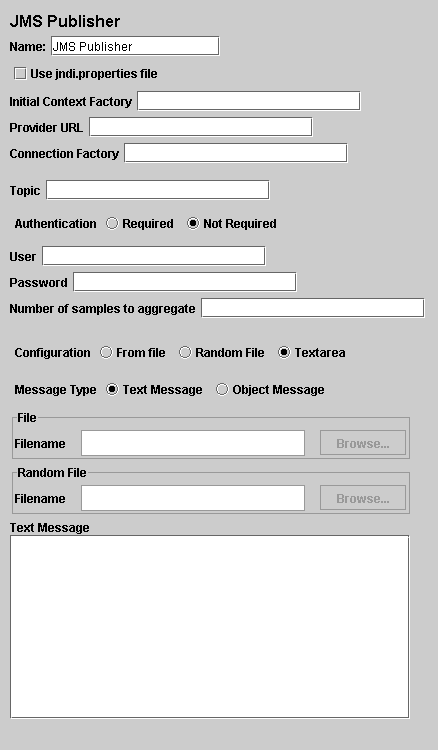
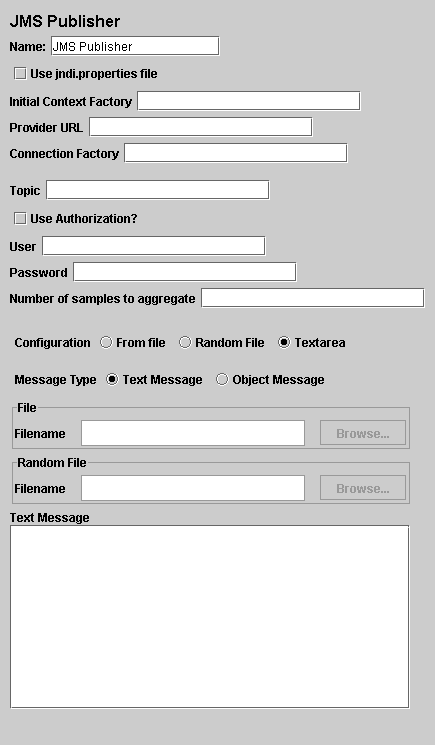
Bug 45460 - JMS TestPlan elements depend on resource property
git-svn-id: https://svn.apache.org/repos/asf/jakarta/jmeter/trunk@712032 13f79535-47bb-0310-9956-ffa450edef68

Changed region(s): [[0.0, 0.0, 0.9862, 0.957], [0.4782, 0.0309, 0.508, 0.0926]]

diff --git a/src/protocol/jms/org/apache/jmeter/protocol/jms/control/gui/JMSSubscriberGui.java b/src/protocol/jms/org/apache/jmeter/protocol/jms/control/gui/JMSSubscriberGui.java
@@ -68,14 +68,8 @@ public class JMSSubscriberGui extends AbstractSamplerGui implements java.awt.eve
     private JLabeledTextField iterations =
         new JLabeledTextField(JMeterUtils.getResString("jms_itertions")); // $NON-NLS-1$
 
-    private static final String required = JMeterUtils.getResString("jms_auth_required"); // $NON-NLS-1$
-
-    private static final String not_req = JMeterUtils.getResString("jms_auth_not_required"); // $NON-NLS-1$
-
-    private static final String[] auth_items = { required, not_req };
-
-    private JLabeledRadio reqAuth =
-        new JLabeledRadio(JMeterUtils.getResString("jms_authentication"), auth_items, not_req); // $NON-NLS-1$
+    private JCheckBox useAuth = 
+        new JCheckBox(JMeterUtils.getResString("jms_use_auth"), false); //$NON-NLS-1$
 
     private JCheckBox readResponse =
         new JCheckBox(JMeterUtils.getResString("jms_read_response"), true); // $NON-NLS-1$
@@ -118,7 +112,7 @@ public class JMSSubscriberGui extends AbstractSamplerGui implements java.awt.eve
         sampler.setTopic(jmsTopic.getText());
         sampler.setUsername(jmsUser.getText());
         sampler.setPassword(jmsPwd.getText());
-        sampler.setUseAuth(reqAuth.getText());
+        sampler.setUseAuth(useAuth.isSelected());
         sampler.setIterations(iterations.getText());
         sampler.setReadResponse(String.valueOf(readResponse.isSelected()));
         sampler.setClientChoice(clientChoice.getText());
@@ -140,7 +134,7 @@ public class JMSSubscriberGui extends AbstractSamplerGui implements java.awt.eve
         sampler.setTopic(jmsTopic.getText());
         sampler.setUsername(jmsUser.getText());
         sampler.setPassword(jmsPwd.getText());
-        sampler.setUseAuth(reqAuth.getText());
+        sampler.setUseAuth(useAuth.isSelected());
         sampler.setIterations(iterations.getText());
         sampler.setReadResponse(String.valueOf(readResponse.isSelected()));
         sampler.setClientChoice(clientChoice.getText());
@@ -179,13 +173,11 @@ public class JMSSubscriberGui extends AbstractSamplerGui implements java.awt.eve
         lookup.add(urlField);
         lookup.add(jndiConnFac);
 
-        reqAuth.addChangeListener(this);
-
         JPanel commonParams = new JPanel();
         commonParams.setLayout(new VerticalLayout(6, VerticalLayout.LEFT));
         mainPanel.add(commonParams);
         commonParams.add(jmsTopic);
-        commonParams.add(reqAuth);
+        commonParams.add(useAuth);
         commonParams.add(jmsUser);
         commonParams.add(jmsPwd);
         commonParams.add(iterations);
@@ -210,7 +202,7 @@ public class JMSSubscriberGui extends AbstractSamplerGui implements java.awt.eve
         jmsUser.setText(sampler.getUsername());
         jmsPwd.setText(sampler.getPassword());
         iterations.setText(sampler.getIterations());
-        reqAuth.setText(sampler.getUseAuth());
+        useAuth.setSelected(sampler.isUseAuth());
         readResponse.setSelected(sampler.getReadResponseAsBoolean());
         clientChoice.setText(sampler.getClientChoice());
     }
@@ -225,7 +217,7 @@ public class JMSSubscriberGui extends AbstractSamplerGui implements java.awt.eve
         jmsUser.setText(""); // $NON-NLS-1$
         jmsPwd.setText(""); // $NON-NLS-1$
         iterations.setText(""); // $NON-NLS-1$
-        reqAuth.setText(""); // $NON-NLS-1$
+        useAuth.setSelected(false);
         readResponse.setSelected(true);
         clientChoice.setText(""); // $NON-NLS-1$
     }

diff --git a/src/protocol/jms/org/apache/jmeter/protocol/jms/control/gui/JMSPublisherGui.java b/src/protocol/jms/org/apache/jmeter/protocol/jms/control/gui/JMSPublisherGui.java
@@ -65,12 +65,6 @@ public class JMSPublisherGui extends AbstractSamplerGui implements java.awt.even
 
     private String[] msgTypes = { text_msg, object_msg };
 
-    private String required = JMeterUtils.getResString("jms_auth_required"); //$NON-NLS-1$
-
-    private String not_req = JMeterUtils.getResString("jms_auth_not_required"); //$NON-NLS-1$
-
-    private String[] auth_items = { required, not_req };
-
     JCheckBox useProperties = new JCheckBox(JMeterUtils.getResString("jms_use_properties_file"), false); //$NON-NLS-1$
 
     JLabeledRadio configChoice = new JLabeledRadio(JMeterUtils.getResString("jms_config"), items, use_text); //$NON-NLS-1$
@@ -83,7 +77,8 @@ public class JMSPublisherGui extends AbstractSamplerGui implements java.awt.even
 
     JLabeledTextField jmsTopic = new JLabeledTextField(JMeterUtils.getResString("jms_topic")); //$NON-NLS-1$
 
-    JLabeledRadio reqAuth = new JLabeledRadio(JMeterUtils.getResString("jms_authentication"), auth_items, not_req); //$NON-NLS-1$
+    private JCheckBox useAuth = 
+        new JCheckBox(JMeterUtils.getResString("jms_use_auth"), false); //$NON-NLS-1$
 
     JLabeledTextField jmsUser = new JLabeledTextField(JMeterUtils.getResString("jms_user")); //$NON-NLS-1$
 
@@ -138,7 +133,7 @@ public class JMSPublisherGui extends AbstractSamplerGui implements java.awt.even
         sampler.setConfigChoice(configChoice.getText());
         sampler.setMessageChoice(msgChoice.getText());
         sampler.setIterations(iterations.getText());
-        sampler.setUseAuth(reqAuth.getText());
+        sampler.setUseAuth(useAuth.isSelected());
         return sampler;
     }
 
@@ -163,7 +158,7 @@ public class JMSPublisherGui extends AbstractSamplerGui implements java.awt.even
         sampler.setConfigChoice(configChoice.getText());
         sampler.setMessageChoice(msgChoice.getText());
         sampler.setIterations(iterations.getText());
-        sampler.setUseAuth(reqAuth.getText());
+        sampler.setUseAuth(useAuth.isSelected());
     }
 
     /**
@@ -201,13 +196,12 @@ public class JMSPublisherGui extends AbstractSamplerGui implements java.awt.even
 
         configChoice.addChangeListener(this);
         msgChoice.addChangeListener(this);
-        reqAuth.addChangeListener(this);
 
         JPanel commonParams = new JPanel();
         commonParams.setLayout(new VerticalLayout(6, VerticalLayout.LEFT));
         mainPanel.add(commonParams);
         commonParams.add(jmsTopic);
-        commonParams.add(reqAuth);
+        commonParams.add(useAuth);
         commonParams.add(jmsUser);
         commonParams.add(jmsPwd);
         commonParams.add(iterations);
@@ -244,7 +238,7 @@ public class JMSPublisherGui extends AbstractSamplerGui implements java.awt.even
         configChoice.setText(use_text);
         updateConfig(use_text);
         iterations.setText(""); // $NON-NLS-1$
-        reqAuth.setText(""); // $NON-NLS-1$
+        useAuth.setSelected(false);
     }
 
     /**
@@ -267,7 +261,7 @@ public class JMSPublisherGui extends AbstractSamplerGui implements java.awt.even
         msgChoice.setText(sampler.getMessageChoice());
         updateConfig(sampler.getConfigChoice());
         iterations.setText(sampler.getIterations());
-        reqAuth.setText(sampler.getUseAuth());
+        useAuth.setSelected(sampler.isUseAuth());
     }
 
     /**

diff --git a/src/protocol/jms/org/apache/jmeter/protocol/jms/sampler/BaseJMSSampler.java b/src/protocol/jms/org/apache/jmeter/protocol/jms/sampler/BaseJMSSampler.java
@@ -52,9 +52,8 @@ public abstract class BaseJMSSampler extends AbstractSampler implements TestList
     private static final String READ_RESPONSE = "jms.read_response"; // $NON-NLS-1$
     //--
 
-    public static final String required = JMeterUtils.getResString("jms_auth_required"); // $NON-NLS-1$
-
-    public static final String not_req = JMeterUtils.getResString("jms_auth_not_required"); // $NON-NLS-1$
+    // See BUG 45460. We need to keep the resource in order to interpret existing files
+    private static final String REQUIRED = JMeterUtils.getResString("jms_auth_required"); // $NON-NLS-1$
 
     public BaseJMSSampler() {
     }
@@ -211,10 +210,10 @@ public abstract class BaseJMSSampler extends AbstractSampler implements TestList
     /**
      * Set whether authentication is required for JNDI
      *
-     * @param auth
+     * @param useAuth
      */
-    public void setUseAuth(String auth) {
-        setProperty(USE_AUTH, auth);
+    public void setUseAuth(boolean useAuth) {
+        setProperty(USE_AUTH, useAuth);
     }
 
     /**
@@ -222,8 +221,9 @@ public abstract class BaseJMSSampler extends AbstractSampler implements TestList
      *
      * @return whether jndi requires authentication
      */
-    public String getUseAuth() {
-        return getPropertyAsString(USE_AUTH);
+    public boolean isUseAuth() {
+        final String useAuth = getPropertyAsString(USE_AUTH);
+        return useAuth.equalsIgnoreCase("true") || useAuth.equals(REQUIRED); // $NON-NLS-1$
     }
 
     /**

diff --git a/src/protocol/jms/org/apache/jmeter/protocol/jms/sampler/SubscriberSampler.java b/src/protocol/jms/org/apache/jmeter/protocol/jms/sampler/SubscriberSampler.java
@@ -103,7 +103,7 @@ public class SubscriberSampler extends BaseJMSSampler implements TestListener, M
         OnMessageSubscriber sub = (OnMessageSubscriber) ClientPool.get(this);
         if (sub == null) {
             sub = new OnMessageSubscriber(this.getUseJNDIPropertiesAsBoolean(), this.getJNDIInitialContextFactory(),
-                    this.getProviderUrl(), this.getConnectionFactory(), this.getTopic(), this.getUseAuth(), this
+                    this.getProviderUrl(), this.getConnectionFactory(), this.getTopic(), this.isUseAuth(), this
                             .getUsername(), this.getPassword());
             sub.setMessageListener(this);
             sub.resume();
@@ -122,7 +122,7 @@ public class SubscriberSampler extends BaseJMSSampler implements TestListener, M
     public void initReceiveClient() {
         this.SUBSCRIBER = new ReceiveSubscriber(this.getUseJNDIPropertiesAsBoolean(), this
                 .getJNDIInitialContextFactory(), this.getProviderUrl(), this.getConnectionFactory(), this.getTopic(),
-                this.getUseAuth(), this.getUsername(), this.getPassword());
+                this.isUseAuth(), this.getUsername(), this.getPassword());
         this.SUBSCRIBER.resume();
         ClientPool.addClient(this.SUBSCRIBER);
         log.info("SubscriberSampler.initReceiveClient called");

diff --git a/src/protocol/jms/org/apache/jmeter/protocol/jms/client/InitialContextFactory.java b/src/protocol/jms/org/apache/jmeter/protocol/jms/client/InitialContextFactory.java
@@ -29,7 +29,6 @@ import javax.jms.Topic;
 
 import org.apache.jorphan.logging.LoggingManager;
 import org.apache.log.Logger;
-import org.apache.jmeter.protocol.jms.sampler.BaseJMSSampler;
 
 /**
  * InitialContextFactory is responsible for getting and instance of the initial
@@ -41,13 +40,13 @@ public class InitialContextFactory {
 
     private static final Logger log = LoggingManager.getLoggerForClass();
 
-    public static synchronized Context lookupContext(String jndi, String url, String useAuth, String user, String pwd) {
+    public static synchronized Context lookupContext(String jndi, String url, boolean useAuth, String user, String pwd) {
         Context ctx = (Context) MAP.get(jndi + url);
         if (ctx == null) {
             Properties props = new Properties();
             props.setProperty(Context.INITIAL_CONTEXT_FACTORY, jndi);
             props.setProperty(Context.PROVIDER_URL, url);
-            if (useAuth != null && useAuth.equals(BaseJMSSampler.required) && user != null && pwd != null
+            if (useAuth && user != null && pwd != null
                     && user.length() > 0 && pwd.length() > 0) {
                 props.setProperty(Context.SECURITY_PRINCIPAL, user);
                 props.setProperty(Context.SECURITY_CREDENTIALS, pwd);

diff --git a/src/protocol/jms/org/apache/jmeter/protocol/jms/client/ReceiveSubscriber.java b/src/protocol/jms/org/apache/jmeter/protocol/jms/client/ReceiveSubscriber.java
@@ -65,7 +65,7 @@ public class ReceiveSubscriber implements Runnable {
     }
 
     public ReceiveSubscriber(boolean useProps, String jndi, String url, String connfactory, String topic,
-            String useAuth, String user, String pwd) {
+            boolean useAuth, String user, String pwd) {
         Context ctx = initJNDI(useProps, jndi, url, useAuth, user, pwd);
         if (ctx != null) {
             initConnection(ctx, connfactory, topic);
@@ -85,7 +85,7 @@ public class ReceiveSubscriber implements Runnable {
      * @param pwd
      * @return  the JNDI initial context or null
      */
-    public Context initJNDI(boolean useProps, String jndi, String url, String useAuth, String user, String pwd) {
+    public Context initJNDI(boolean useProps, String jndi, String url, boolean useAuth, String user, String pwd) {
         if (useProps) {
             try {
                 return new InitialContext();

diff --git a/src/protocol/jms/org/apache/jmeter/protocol/jms/client/OnMessageSubscriber.java b/src/protocol/jms/org/apache/jmeter/protocol/jms/client/OnMessageSubscriber.java
@@ -73,7 +73,7 @@ public class OnMessageSubscriber {
      * @param pwd
      */
     public OnMessageSubscriber(boolean useProps, String jndi, String url, String connfactory, String topic,
-            String useAuth, String user, String pwd) {
+            boolean useAuth, String user, String pwd) {
         Context ctx = initJNDI(useProps, jndi, url, useAuth, user, pwd);
         if (ctx != null) {
             initConnection(ctx, connfactory, topic);
@@ -93,7 +93,7 @@ public class OnMessageSubscriber {
      * @param pwd
      * @return the context or null
      */
-    public Context initJNDI(boolean useProps, String jndi, String url, String useAuth, String user, String pwd) {
+    public Context initJNDI(boolean useProps, String jndi, String url, boolean useAuth, String user, String pwd) {
         if (useProps) {
             try {
                 return new InitialContext();

diff --git a/src/protocol/jms/org/apache/jmeter/protocol/jms/client/Publisher.java b/src/protocol/jms/org/apache/jmeter/protocol/jms/client/Publisher.java
@@ -52,7 +52,7 @@ public class Publisher {
     /**
      *
      */
-    public Publisher(boolean useProps, String jndi, String url, String connfactory, String topic, String useAuth,
+    public Publisher(boolean useProps, String jndi, String url, String connfactory, String topic, boolean useAuth,
             String user, String pwd) {
         super();
         Context ctx = initJNDI(useProps, jndi, url, useAuth, user, pwd);
@@ -63,7 +63,7 @@ public class Publisher {
         }
     }
 
-    public Context initJNDI(boolean useProps, String jndi, String url, String useAuth, String user, String pwd) {
+    public Context initJNDI(boolean useProps, String jndi, String url, boolean useAuth, String user, String pwd) {
         if (useProps) {
             try {
                 return new InitialContext();

diff --git a/src/protocol/jms/org/apache/jmeter/protocol/jms/sampler/PublisherSampler.java b/src/protocol/jms/org/apache/jmeter/protocol/jms/sampler/PublisherSampler.java
@@ -110,7 +110,7 @@ public class PublisherSampler extends BaseJMSSampler implements TestListener {
      */
     public synchronized void initClient() {
         this.PUB = new Publisher(this.getUseJNDIPropertiesAsBoolean(), this.getJNDIInitialContextFactory(), this
-                .getProviderUrl(), this.getConnectionFactory(), this.getTopic(), this.getUseAuth(), this.getUsername(),
+                .getProviderUrl(), this.getConnectionFactory(), this.getTopic(), this.isUseAuth(), this.getUsername(),
                 this.getPassword());
         ClientPool.addClient(this.PUB);
         log.info("PublisherSampler.initClient called");
